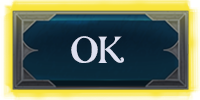
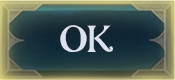
add new highlighted button

diff --git a/src/SharedObject/ResourceLoader.java b/src/SharedObject/ResourceLoader.java
@@ -31,6 +31,7 @@ public abstract class ResourceLoader {
 	public static Image waterDun;
 	public static Image grassland;
 	public static Image waterland;
+	public static Image main;
 	
 	public static Thread loadThread;
 	
@@ -53,13 +54,14 @@ public abstract class ResourceLoader {
 			archerFace = new Image(ClassLoader.getSystemResource("Character/Archerface.png").toString());
 			
 			//BG
-			map = new Image(ClassLoader.getSystemResource("BG/Map.jpg").toString());
-			dirtland = new Image(ClassLoader.getSystemResource("BG/Dirt.jpg").toString());
-			dungeon1 = new Image(ClassLoader.getSystemResource("BG/Dun1.jpg").toString());
-			dungeon2 = new Image(ClassLoader.getSystemResource("BG/Dun2.jpg").toString());
-			waterDun = new Image(ClassLoader.getSystemResource("BG/DunWater.jpg").toString());
-			grassland = new Image(ClassLoader.getSystemResource("BG/Grass.jpg").toString());
-			waterland = new Image(ClassLoader.getSystemResource("BG/Water.jpg").toString());
+			map = new Image(ClassLoader.getSystemResource("BGandButton/Map.jpg").toString());
+			dirtland = new Image(ClassLoader.getSystemResource("BGandButton/Dirt.jpg").toString());
+			dungeon1 = new Image(ClassLoader.getSystemResource("BGandButton/Dun1.jpg").toString());
+			dungeon2 = new Image(ClassLoader.getSystemResource("BGandButton/Dun2.jpg").toString());
+			waterDun = new Image(ClassLoader.getSystemResource("BGandButton/DunWater.jpg").toString());
+			grassland = new Image(ClassLoader.getSystemResource("BGandButton/Grass.jpg").toString());
+			waterland = new Image(ClassLoader.getSystemResource("BGandButton/Water.jpg").toString());
+			main = new Image(ClassLoader.getSystemResourceAsStream("BGandButton/Main.jpg").toString());
 		}catch (NullPointerException e) {
 			System.out.println("resource not found");
 		}

diff --git a/src/drawing/home/HomeCanvas.java b/src/drawing/home/HomeCanvas.java
@@ -1,7 +1,9 @@
 package drawing.home;
 
+import Main.SelectMain;
 import SharedObject.Constant;
 import SharedObject.RenderableHolder;
+import SharedObject.ResourceLoader;
 import drawing.manager.SceneManager;
 import javafx.event.EventHandler;
 import javafx.geometry.Pos;
@@ -13,7 +15,6 @@ import javafx.scene.input.MouseEvent;
 import javafx.scene.paint.Color;
 import javafx.scene.text.Font;
 import javafx.scene.text.TextAlignment;
-import main.SelectMain;
 
 
 public class HomeCanvas extends Canvas {
@@ -30,7 +31,7 @@ public class HomeCanvas extends Canvas {
 	
 	public void drawMainMenu() {
 		//draw bg
-		gc.drawImage(img, 0, 0, Constant.SCENE_WIDTH, Constant.SCENE_HEIGHT);
+		gc.drawImage(ResourceLoader.main, 0, 0, Constant.SCENE_WIDTH, Constant.SCENE_HEIGHT);
 		
 		//draw title
 		gc.setFill(Color.DARKTURQUOISE);
@@ -40,7 +41,7 @@ public class HomeCanvas extends Canvas {
 		gc.fillText("B x M", Constant.SCENE_WIDTH/2, Constant.SCENE_HEIGHT/3);
 		
 		//draw btn
-		gc.drawImage(img, Constant.SCENE_WIDTH/2, Constant.SCENE_HEIGHT/2);
+		//gc.drawImage(ResourceLoader., Constant.SCENE_WIDTH/2, Constant.SCENE_HEIGHT/2);
 	}
 	
 	public void goToSeclect() {

diff --git a/src/Main/Main.java b/src/Main/Main.java
@@ -1,0 +1,45 @@
+package Main;
+
+import drawing.manager.SceneManager;
+import javafx.application.Application;
+import javafx.application.Platform;
+import javafx.stage.Stage;
+
+public class Main extends Application{
+	
+	public static boolean isGameRunning;
+
+	@Override
+	public void start(Stage primaryStage) throws Exception {
+		try {
+			isGameRunning = true;
+			SceneManager.initialize(primaryStage);
+			SceneManager.goToScene(SceneManager.MainScene);
+
+			primaryStage.setTitle("B x M");
+			primaryStage.centerOnScreen();
+			primaryStage.setResizable(false);
+			
+		}catch (Exception e) {
+			e.printStackTrace();
+		}
+		
+	}
+	@Override
+	public void stop() throws Exception {
+		try {
+			BattleFieldMain.stop();
+			
+		} catch (NullPointerException e) {
+		} finally {
+			isGameRunning = false;
+			Platform.exit();
+		}
+	}
+	
+	public static void main(String[] args) {
+		launch(args);
+	}
+	
+
+}

diff --git a/src/drawing/battlefield/BattleFieldCanvas.java b/src/drawing/battlefield/BattleFieldCanvas.java
@@ -2,6 +2,7 @@ package drawing.battlefield;
 
 import java.util.ConcurrentModificationException;
 
+import Main.BattleFieldMain;
 import SharedObject.Constant;
 import SharedObject.IRenderable;
 import SharedObject.InputUtility;
@@ -10,7 +11,6 @@ import SharedObject.ResourceLoader;
 import javafx.scene.canvas.Canvas;
 import javafx.scene.canvas.GraphicsContext;
 import javafx.scene.paint.Color;
-import main.BattleFieldMain;
 
 public class BattleFieldCanvas extends Canvas {
 	

diff --git a/src/drawing/select/SelectCanvas.java b/src/drawing/select/SelectCanvas.java
@@ -1,5 +1,6 @@
 package drawing.select;
 
+import Main.BattleFieldMain;
 import SharedObject.Constant;
 import SharedObject.RenderableHolder;
 import SharedObject.ResourceLoader;
@@ -10,7 +11,6 @@ import javafx.scene.input.MouseEvent;
 import javafx.scene.paint.Color;
 import javafx.scene.text.Font;
 import javafx.scene.text.TextAlignment;
-import main.BattleFieldMain;
 
 public class SelectCanvas extends Canvas{
 	private GraphicsContext gc;

diff --git a/src/drawing/battlefield/BattleFieldScene.java b/src/drawing/battlefield/BattleFieldScene.java
@@ -1,5 +1,6 @@
 package drawing.battlefield;
 
+import Main.BattleFieldMain;
 import Main.DungeonMain;
 import SharedObject.InputUtility;
 import drawing.manager.DialogPane;
@@ -7,7 +8,6 @@ import javafx.geometry.Pos;
 import javafx.scene.Scene;
 import javafx.scene.canvas.Canvas;
 import javafx.scene.layout.StackPane;
-import main.BattleFieldMain;
 
 public class BattleFieldScene extends Scene{
 	private StackPane root;

diff --git a/src/Main/BattleFieldMain.java b/src/Main/BattleFieldMain.java
@@ -1,4 +1,4 @@
-package main;
+package Main;
 
 public class BattleFieldMain {
 

diff --git a/src/Main/SelectMain.java b/src/Main/SelectMain.java
@@ -1,4 +1,4 @@
-package main;
+package Main;
 
 public class SelectMain {
 
